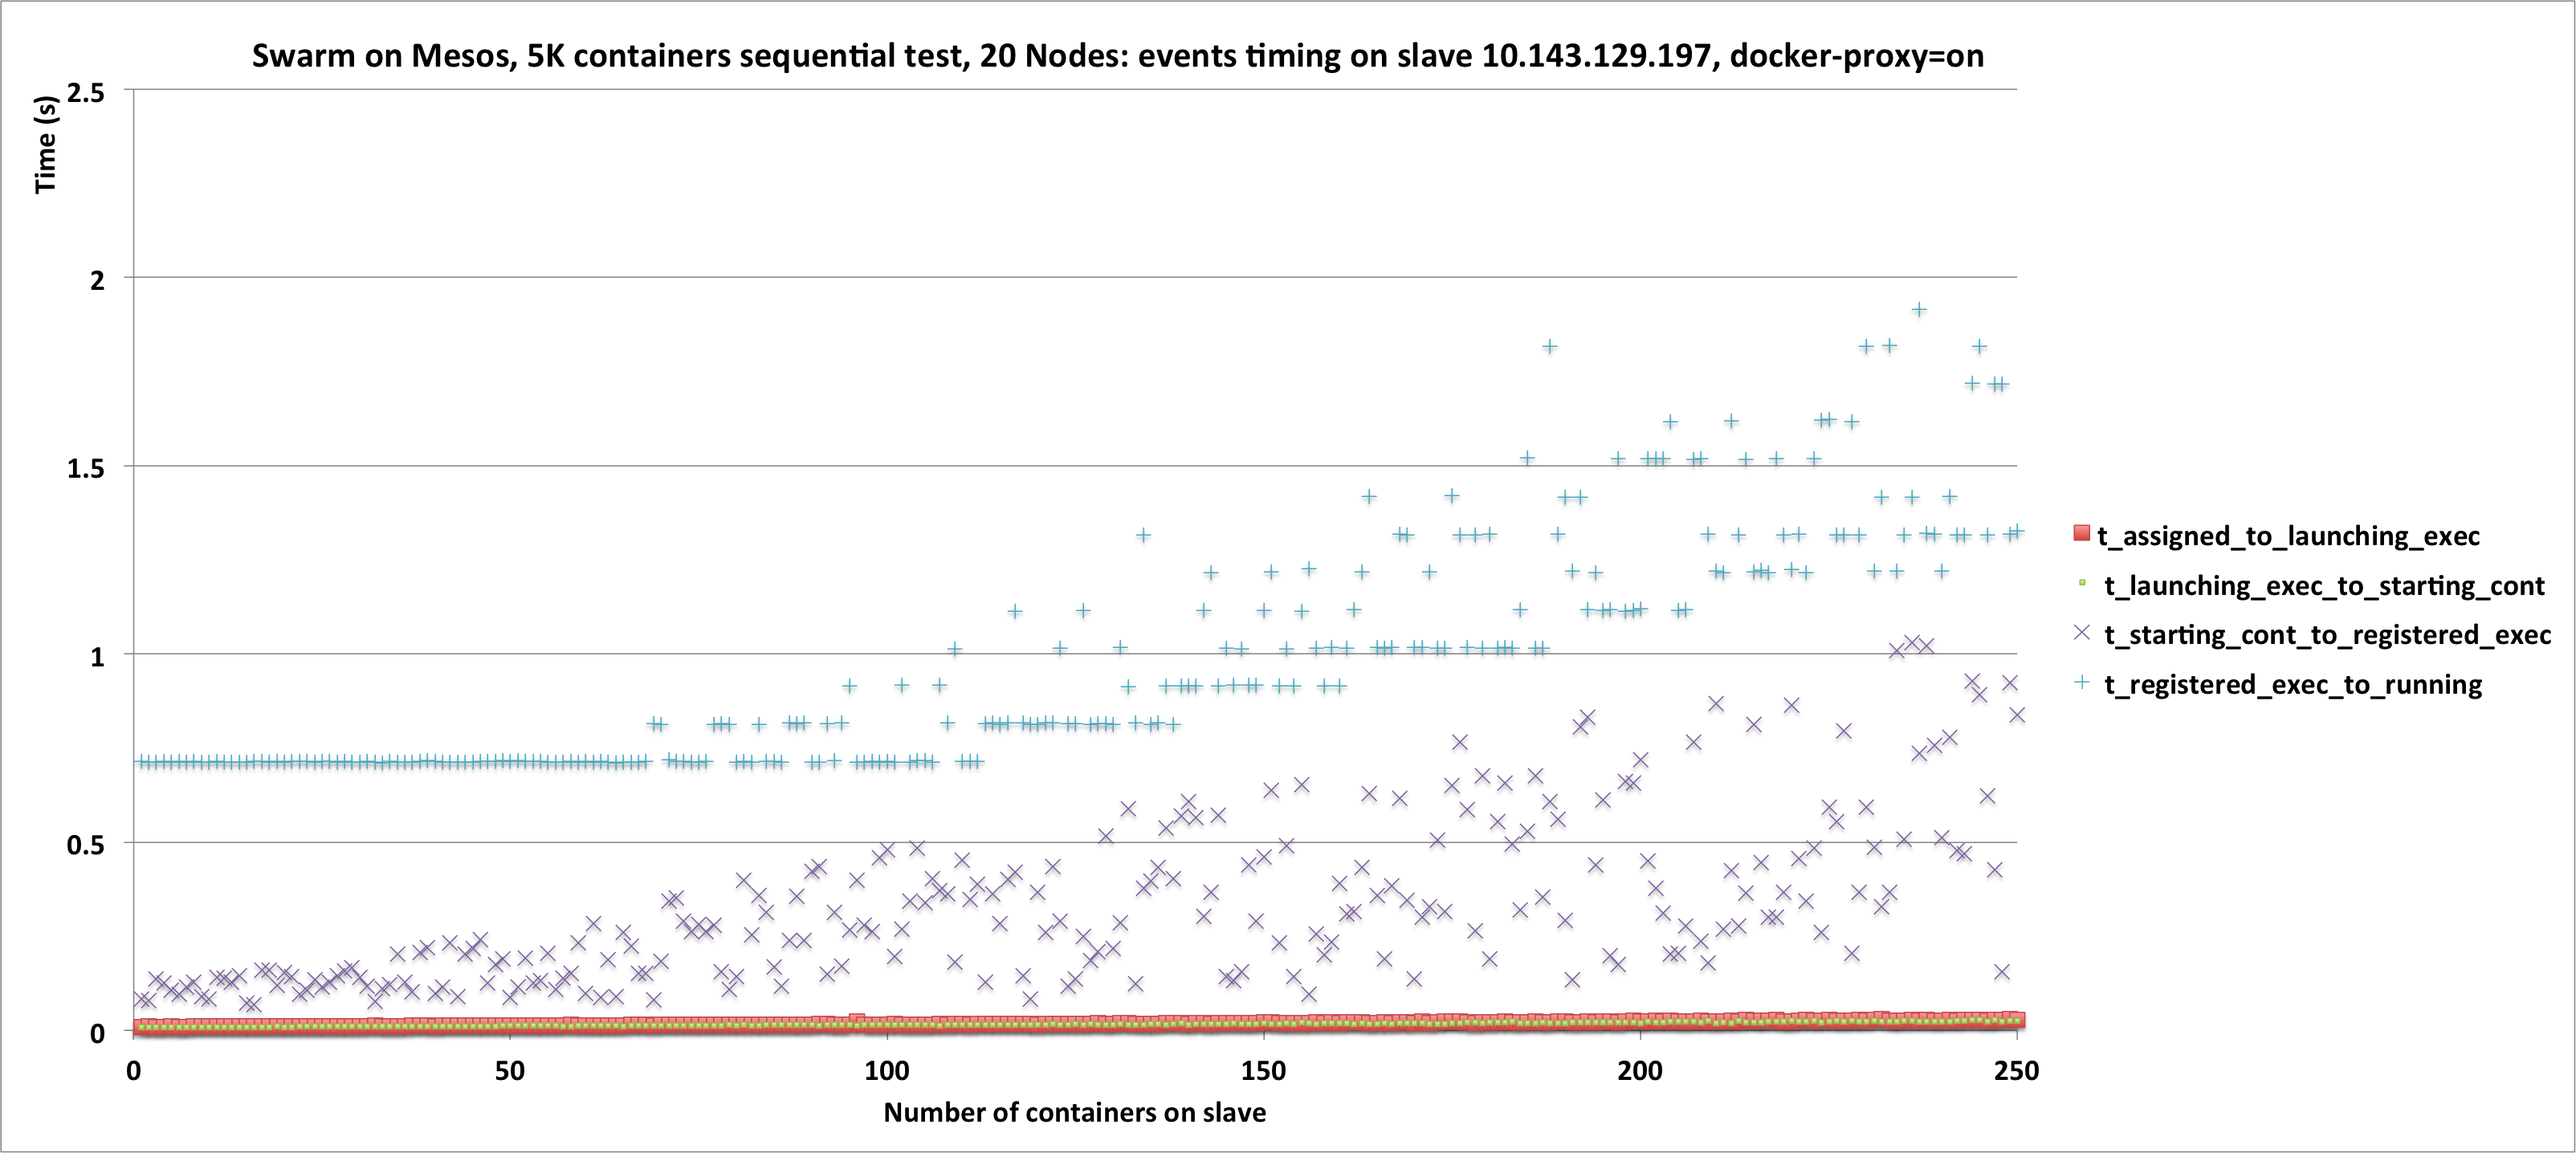
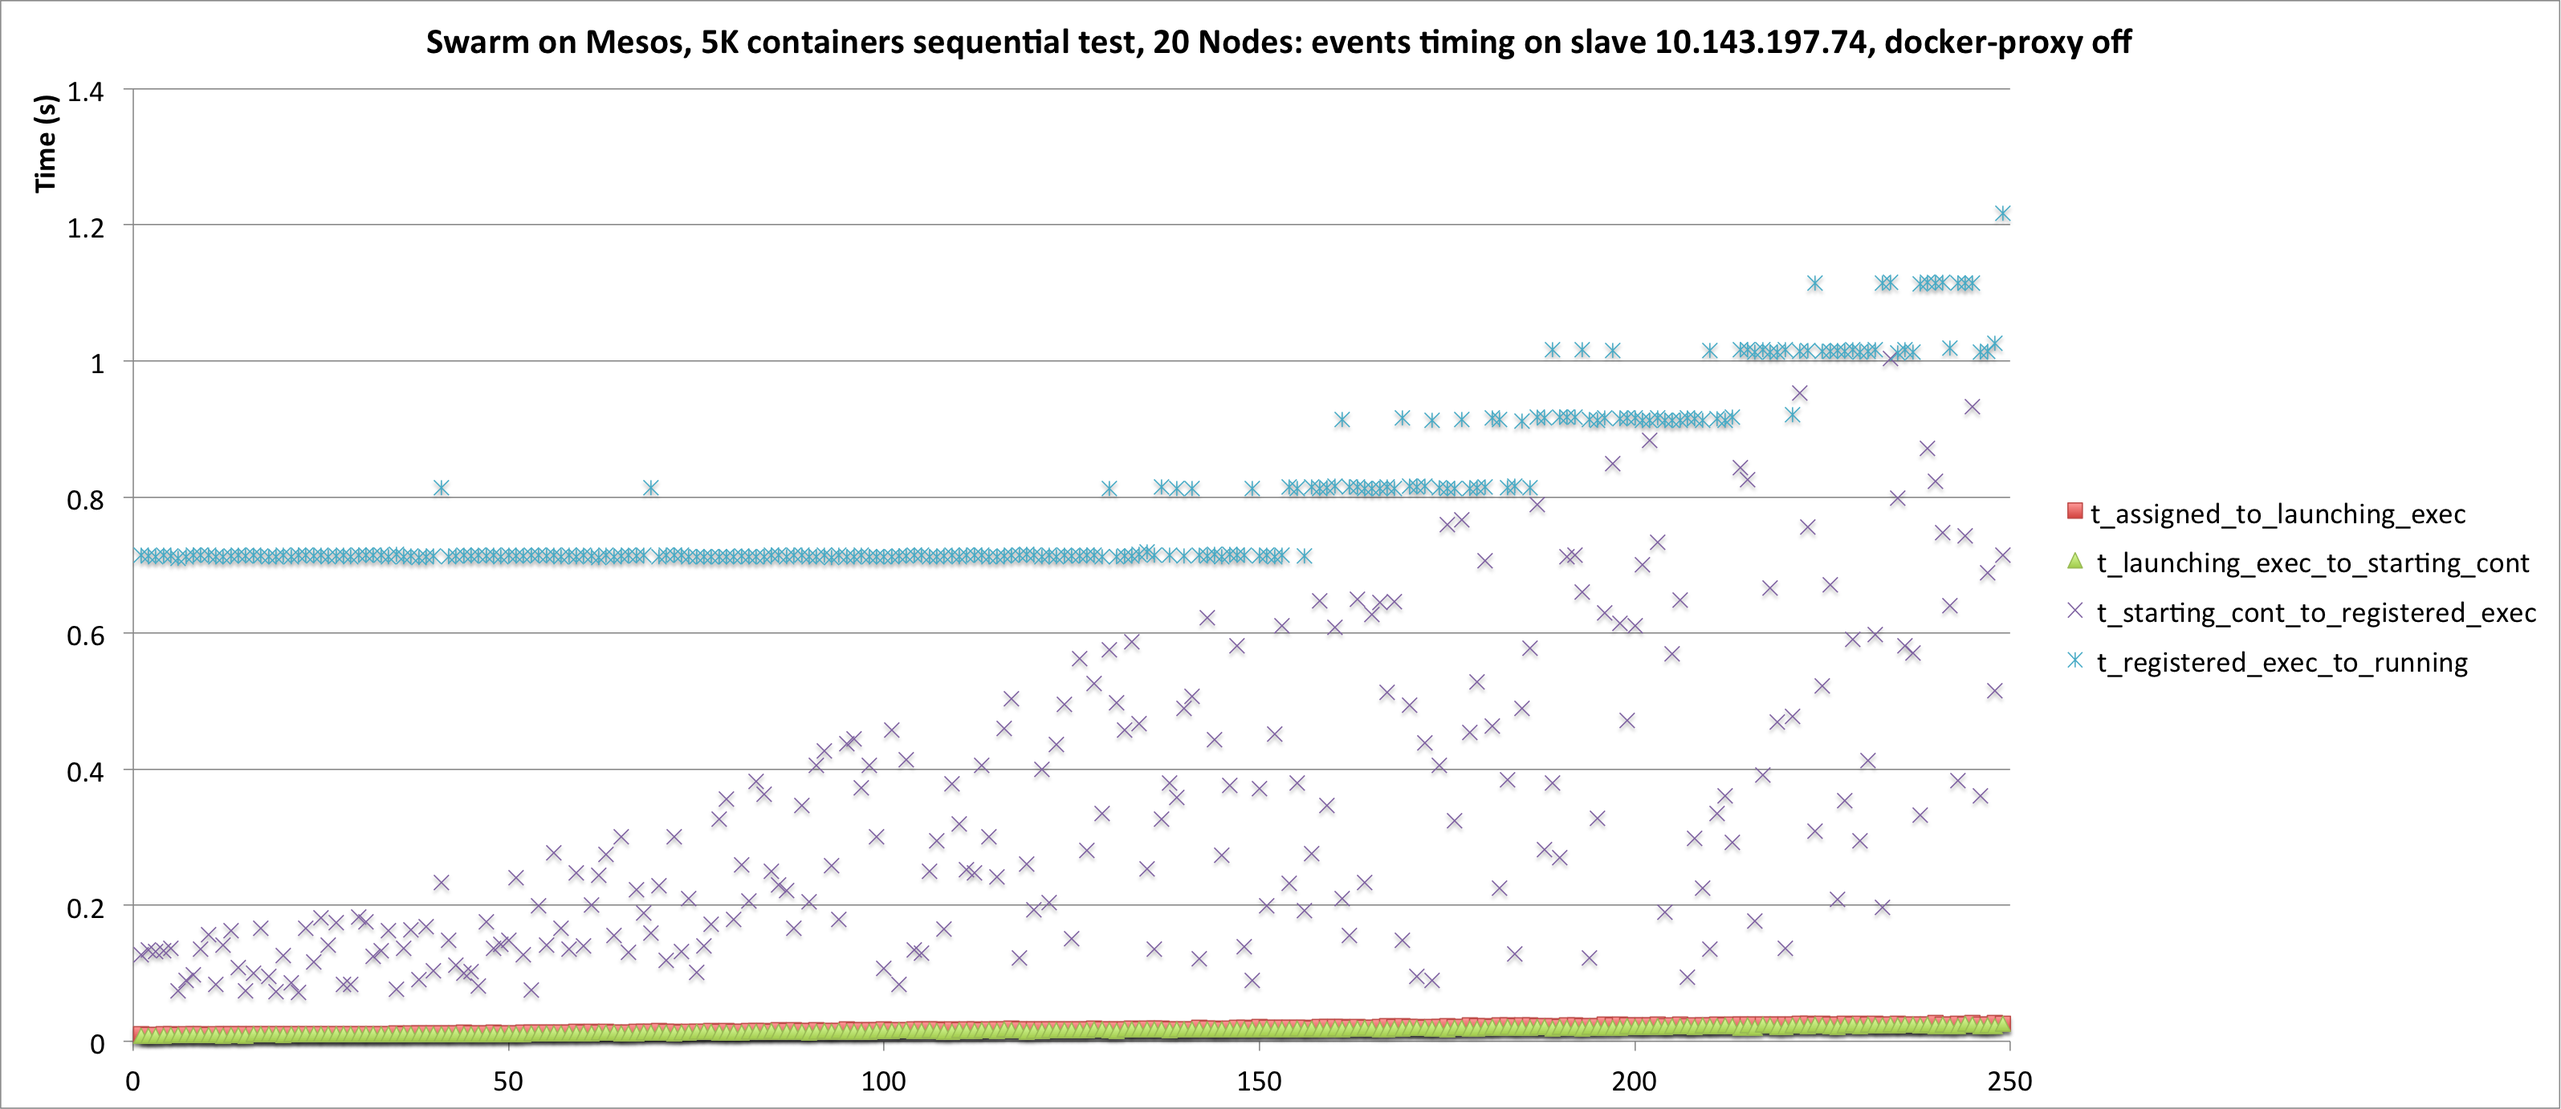
more data on swarm on mesos tests

diff --git a/swarm-mesos/151201-paolo-swarm-on-mesos/README.md b/swarm-mesos/151201-paolo-swarm-on-mesos/README.md
@@ -122,7 +122,7 @@ We have extracted the following metrics:
 - t_starting_cont_to_registered_exec: time from when container is launched to when executor is registered
 - t_registered_exec_to_running: time from when executor is registered to when container is launched
 
-![alt text](mesos-slave-10.143.129.197.png "Mesos worker log analysis")
+![alt text](mesos-slave-10.143.129.197-docker-proxy-on.png "Mesos worker log analysis")
 
 ## Comparison with docker engine performance in the same worker node
 To compare the Mesos executor execution path in the worker node with launching directly the container from the engine (as for example happens when running with standalone Swarm), we repeated the sequential test directly on the Mesos worker node invoking directly the engine with the docker CLI. The results are below:
@@ -161,24 +161,24 @@ We found an improvement of latency in the analysis of the log events for the wor
 
 #### Comparison with previous results for worker events:
 
-With userland proxy on
+With userland proxy on:
 
 | Events	| Average (ms)	| Std. Dev (ms)	| Median (ms)	| 90th Percentile(ms) |
--------------------------------------------------------------------------------
+|---------|---------------|---------------|-------------|---------------------|
 | t_starting_cont_to_registered_exec	|		331.30 |	215.22 |	280	639.6 |
 | t_registered_exec_to_running		|	981.59	| 304.47	| 817	| 1418.2 |
 
 
-With userland proxy off
+With userland proxy off:
 
 | Events |Average (ms) |	Std. Dev (ms)	| Median (ms)	| 90th Percentile(ms) |
-------------------------------------------------------------------------
+|--------|-------------|----------------|-------------|---------------------|
 | t_starting_cont_to_registered_exec |	336.56| 220.39	| 275	| 661.2 |
 | t_registered_exec_to_running	|		803.46	| 126.63	| 715	| 1015    |
 
 #### Comparison with previous results for container launch time in 5k sequential test
 
 	| Userland Proxy | Average (ms)	| Std. Dev (ms)	| Median (ms)	| 90th Percentile(ms) |
-  ------------------------------------------------------------------------------------
+  |----------------|--------------|---------------|-------------|---------------------|
 	| on | 1424.23	| 445.99	| 1317	| 2073.1 |
 	| off | 1352.95	| 394.51	| 1244	| 1941  |
